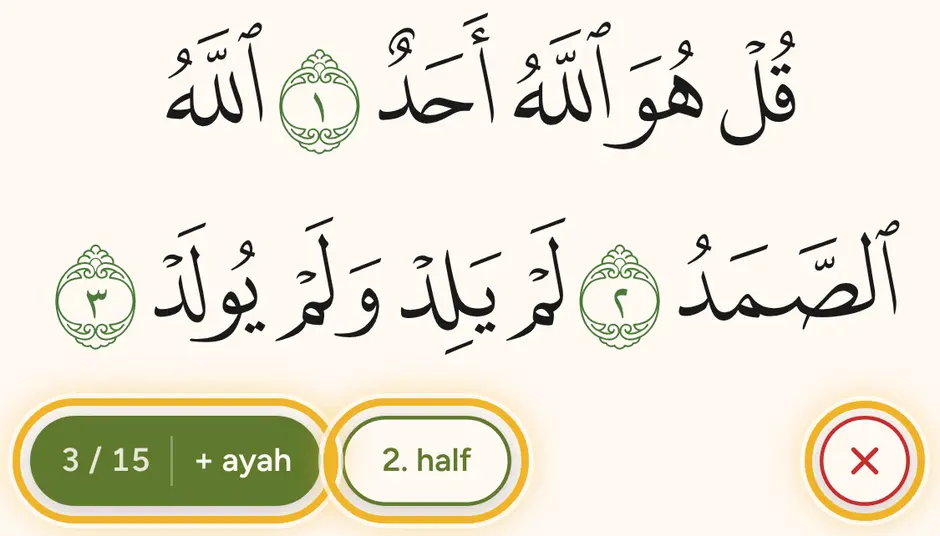
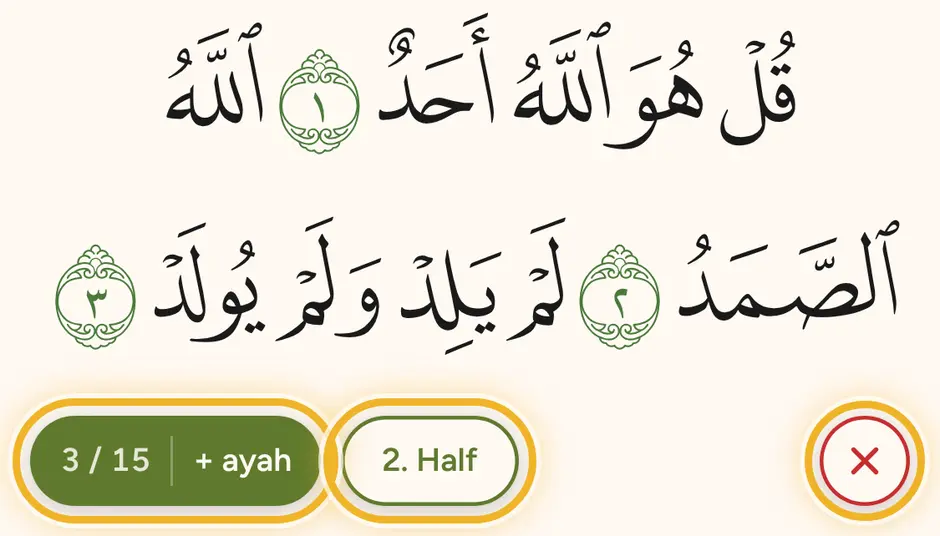
Capitalise "2. Half" everywhere
Claude-Session: https://claude.ai/code/session_01Co3JXumQV2vF34bDNqrmHh

Changed region(s): [[0.4319, 0.7463, 0.5862, 0.9851]]

diff --git a/src/MushafPage.tsx b/src/MushafPage.tsx
@@ -229,7 +229,7 @@ export default function MushafPage({
   // the page's last ayah in, or once zooming would barely enlarge them, they show in the page's own layout and size
   // instead, with the rest blank in its place, so it finishes looking like the page. It starts at the first ayah of
   // today's portion on the page (or the page's first ayah) and keeps to the portion's Surahs, so another Surah on the
-  // page never shows. With more than five ayahs, "2. half" starts it from the second half instead, leaving out the
+  // page never shows. With more than five ayahs, "2. Half" starts it from the second half instead, leaving out the
   // first; each start keeps its own count. When the page holds nothing else, the whole page shows once all of it is
   // in. It is switched for each page, and each page stays as it was left until going back to Today.
   const pageAyahs = useMemo(() => {
@@ -262,7 +262,7 @@ export default function MushafPage({
   const shownKeys = stepping && !wholePage ? new Set(stepKeys.slice(halfFrom, shownTo)) : null
   const away = (key: string) => Boolean(shownKeys && !shownKeys.has(key)) // not reached yet: blank, in its place
   // As printed, the ayah shown first starts after the end sign of the one before it (of the same Surah), so that
-  // sign still shows; above all from "2. half".
+  // sign still shows; above all from "2. Half".
   const before = pageAyahs[pageAyahs.indexOf(stepKeys[halfFrom]) - 1]
   const leadSign = shownKeys && before && surahOf(before) === surahOf(stepKeys[halfFrom]) ? before : null
   const fitKey = `${qcfPage ? 'qcf' : 'bundled'}:${halfFrom}-${shownTo}`
@@ -622,7 +622,7 @@ export default function MushafPage({
               aria-label="Start from the second half"
               tabIndex={buttonVisible ? 0 : -1}
             >
-              2. half
+              2. Half
             </button>
           )}
           <button className="step-exit" onClick={() => onSteps(null)} aria-label="Show the whole page" tabIndex={buttonVisible ? 0 : -1}>

diff --git a/src/tips.ts b/src/tips.ts
@@ -35,7 +35,7 @@ export const TIPS: { id: TipId; title: string; text: string }[] = [
     text: [
       "Today's new ayahs show one at a time, zoomed in, so you can focus on each.",
       '+\u00a0ayah: add the next ayah once you know this one. 1\u00a0/\u00a07 is how many of the page\'s ayahs are showing.',
-      '2.\u00a0half: start from the middle of the page.',
+      '2.\u00a0Half: start from the middle of the page.',
       '×: leave ayah by ayah and see the normal Mushaf page.',
       'If the buttons fade, tap the screen to show them again.',
     ].join('\n'),
@@ -53,7 +53,7 @@ export const TIPS: { id: TipId; title: string; text: string }[] = [
   {
     id: 'ayah-by-ayah',
     title: 'Ayah by ayah',
-    text: 'Only the ayahs you have added show, zoomed in. "+\u00a0ayah" adds the next one, "2.\u00a0half" starts from the middle of the page, and × leaves ayah by ayah for the normal Mushaf page.',
+    text: 'Only the ayahs you have added show, zoomed in. "+\u00a0ayah" adds the next one, "2.\u00a0Half" starts from the middle of the page, and × leaves ayah by ayah for the normal Mushaf page.',
   },
   {
     id: 'hide',

diff --git a/src/index.css b/src/index.css
@@ -810,7 +810,7 @@ select, input[type='number'] {
 
 /* Ayah by ayah: off, an outlined pill in the bottom left corner: a magnifying glass on the letter ب (in Amiri), and
    its name, so it needs no guessing (on a narrow phone, only the glass, in a round button, leaving room for ‹ ›). On,
-   "+ ayah", "2. half" and a round exit button in one row across the bottom; "+ ayah" also holds the count. The exit
+   "+ ayah", "2. Half" and a round exit button in one row across the bottom; "+ ayah" also holds the count. The exit
    is red, like the pen's Clear page: it leaves the mode. Hide and the pen are put away meanwhile. They fade with the
    hide button. */
 .step-toggle {
@@ -895,7 +895,7 @@ select, input[type='number'] {
 .step-tool:disabled { opacity: 0.45; }
 .step-exit { flex: none; }
 
-/* "2. half": an outlined pill, filled while ayah by ayah starts from the second half. */
+/* "2. Half": an outlined pill, filled while ayah by ayah starts from the second half. */
 .step-half {
   position: relative;
   flex: none;

diff --git a/PLAN.md b/PLAN.md
@@ -29,7 +29,7 @@ Changes from my note cards. I rate each Surah myself (★ weak, ★½ last page 
 19. ✅ **No hide button in ayah by ayah** (builder's request): while ayah by ayah is on, the hide button is put away too and hide mode pauses, so the ayahs shown are never blank; it comes back as it was on leaving ayah by ayah.
 20. ✅ **Ayah by ayah in halves, page by page** (builder's request): the zoom stays (step 21 corrected a misreading here). The slider goes: a page with more than five ayahs to step through is split into a 1st and 2nd half (where the text is nearest half way), starting in the 1st; each half shows on its own and keeps its own count. The toggle is switched for each page: other pages show as usual until their own toggle is pressed (from Hifz, pages holding part of today's Hifz still start ayah by ayah), and each page stays as it was left until going back to Today.
 21. ✅ **Zoom back, finishing like the page** (builder's correction): the ayahs shown are zoomed in on their own, as before step 20. With the last ayah in (of the page, or of the half showing), or once zooming would make them at most 1.5 times the page's size, they show in the page's own layout and size instead, with the ayahs not reached yet blank in their places, so the page finishes looking like itself.
-22. ✅ **"2. half" instead of two halves** (builder's request): by default ayah by ayah goes through the whole page. On a page with more than five ayahs, a "2. half" button starts it from the second half instead, on to the page's end, leaving out the first half; pressing it again goes back to the whole page. Each start keeps its own count, and the count is across the whole page (from the second half it starts at that ayah's place on the page, e.g. 5 / 10). In the page's layout, the end sign of the ayah just before the first one shown (of the same Surah) shows too, as printed. This replaces step 20's 1st and 2nd half. Going through the whole page, the zoom now gives way to the page's layout only once it would be at most 1.2 times the page's size (was 1.5), so it stays zoomed for most of the page.
+22. ✅ **"2. Half" instead of two halves** (builder's request): by default ayah by ayah goes through the whole page. On a page with more than five ayahs, a "2. Half" button starts it from the second half instead, on to the page's end, leaving out the first half; pressing it again goes back to the whole page. Each start keeps its own count, and the count is across the whole page (from the second half it starts at that ayah's place on the page, e.g. 5 / 10). In the page's layout, the end sign of the ayah just before the first one shown (of the same Surah) shows too, as printed. This replaces step 20's 1st and 2nd half. Going through the whole page, the zoom now gives way to the page's layout only once it would be at most 1.2 times the page's size (was 1.5), so it stays zoomed for most of the page.
 23. ✅ **Rating reminder** (builder's request): opened from Rabt or Muraja'a, a page with a memorised Surah that has no rating yet opens the rating panel by itself. It does so once for each Surah after opening from Today, not again on that Surah's other pages, and stops once the Surah is rated. Planning still never reads ratings. The star button at the top right shows the stars of the page's main memorised Surah (the one with most ayahs on the page) once it is rated.
 24. ✅ **Open a Surah from Surahs** (builder's request): each row on the Surahs screen ends in a small book button that opens the Surah's first page in the Mushaf; back returns to Surahs. Every Mushaf page except Hifz is the default one (rating star, ayah by ayah off until toggled, turning through the whole Mushaf), so a Surah opened from Surahs, like Rabt and Muraja'a, can be rated from the page.
 25. ✅ **Intro before setup** (builder's request): the first run opens with five intro cards on what the app does, before setup: the three kinds, ticking each one done (the day moves on, with pace), a whole Surah (al-Ikhlas) on a Mushaf page in the exact QCF4 font, the page's tools (ayah by ayah, hide mode and the pen), and the Surahs screen with its ratings, with a reminder to back up. The first two are drawn from the app's own pieces; the last three are screenshots of the real app, taken by `npm run screenshots`. Dots show which card is showing, and Next and Back sit in the thumb bar. Skip goes straight to setup, and Restore for a moved phone stays on every card. This replaces step 13's welcome screen.
@@ -50,11 +50,12 @@ Changes from my note cards. I rate each Surah myself (★ weak, ★½ last page 
 - No separate ayah-by-ayah button (until step 17, at the builder's request)
 - No Arabic-script labels or new settings
 
-31. ✅ **Tips say only what their picture shows** (builder's request): each tip's words name only what is in its picture, and every gold ring is something the words name. Rabt and Muraja'a show the start triangle with the page's buttons below it ("Green triangles like this one mark where today's Rabt starts and ends. If the buttons fade, tap the page."), on a short screen so both fit. Today's Hifz rings "+ ayah", "2. half" and ×; ayah by ayah rings × too; the pen rings ‹ and ›; hide rings the ayah tapped to show it; rating rings the choices. Day done no longer mentions History, Rate no longer mentions the Surahs screen, and the History tip is about backing up (its picture). Crops no longer cut a line or button in half, and the ring round Undo hugs the word.
+31. ✅ **Tips say only what their picture shows** (builder's request): each tip's words name only what is in its picture, and every gold ring is something the words name. Rabt and Muraja'a show the start triangle with the page's buttons below it ("Green triangles like this one mark where today's Rabt starts and ends. If the buttons fade, tap the page."), on a short screen so both fit. Today's Hifz rings "+ ayah", "2. Half" and ×; ayah by ayah rings × too; the pen rings ‹ and ›; hide rings the ayah tapped to show it; rating rings the choices. Day done no longer mentions History, Rate no longer mentions the Surahs screen, and the History tip is about backing up (its picture). Crops no longer cut a line or button in half, and the ring round Undo hugs the word.
 32. ✅ **A named "Ayah by ayah" and a red exit** (builder's request): the ayah by ayah toggle in the bottom left corner is an outlined pill that says "Ayah by ayah" instead of an icon of lines, so it needs no guessing. The × that leaves ayah by ayah is red, like the pen's Clear page, since it leaves the mode. On a phone narrower than 360px, ‹ › (with the pen on) sit centred between the pill and the hide button so nothing touches. Intro and tip pictures retaken.
 33. ✅ **A magnifying glass for ayah by ayah** (builder's request): the "Ayah by ayah" pill starts with a magnifying glass over the letter ب, since the mode zooms in on the ayahs. On a phone narrower than 360px only the glass shows, in a round button like hide and the pen, which leaves room for ‹ › (replacing step 32's shift of ‹ ›). Hifz still opens in ayah by ayah, with its own tip.
 34. ✅ **Hifz tip, Amiri ب, no rating while zoomed** (builder's request): the Hifz page's tip is "Hifz, ayah by ayah", with a line for each button ("+ ayah: add the next ayah once you know this one. 1 / 7 is how many of the page's ayahs are showing.", and so on). A tip's lines show as separate short paragraphs, and on a short phone its picture is smaller (the sheet scrolls if it is still too tall). The magnifying glass on "Ayah by ayah" holds ب set in Amiri, a touch bolder so its dot shows. While ayah by ayah is zoomed in, the rating star and its panel are put away; a rating reminder waits until the whole page shows.
 35. ✅ **Tip wording for × and fading buttons** (builder's request): in the Hifz and Ayah by ayah tips, × leaves ayah by ayah for the normal Mushaf page, and the × in a tip's words is drawn larger, bolder and red, like the button (a lighter red in dark mode, to stay readable). The Hifz, Rabt and Muraja'a tips end "If the buttons fade, tap the screen to show them again."
+36. ✅ **"2. Half"** (builder's request): the button and every mention of it are capitalised, "2. Half".
 ## How we'll know it works
 
 1. Rate al-Mulk ★★★ and al-Qalam ★: the Surahs screen shows al-Mulk under strong and al-Qalam under weak, and both are still there after a Backup and restore.
